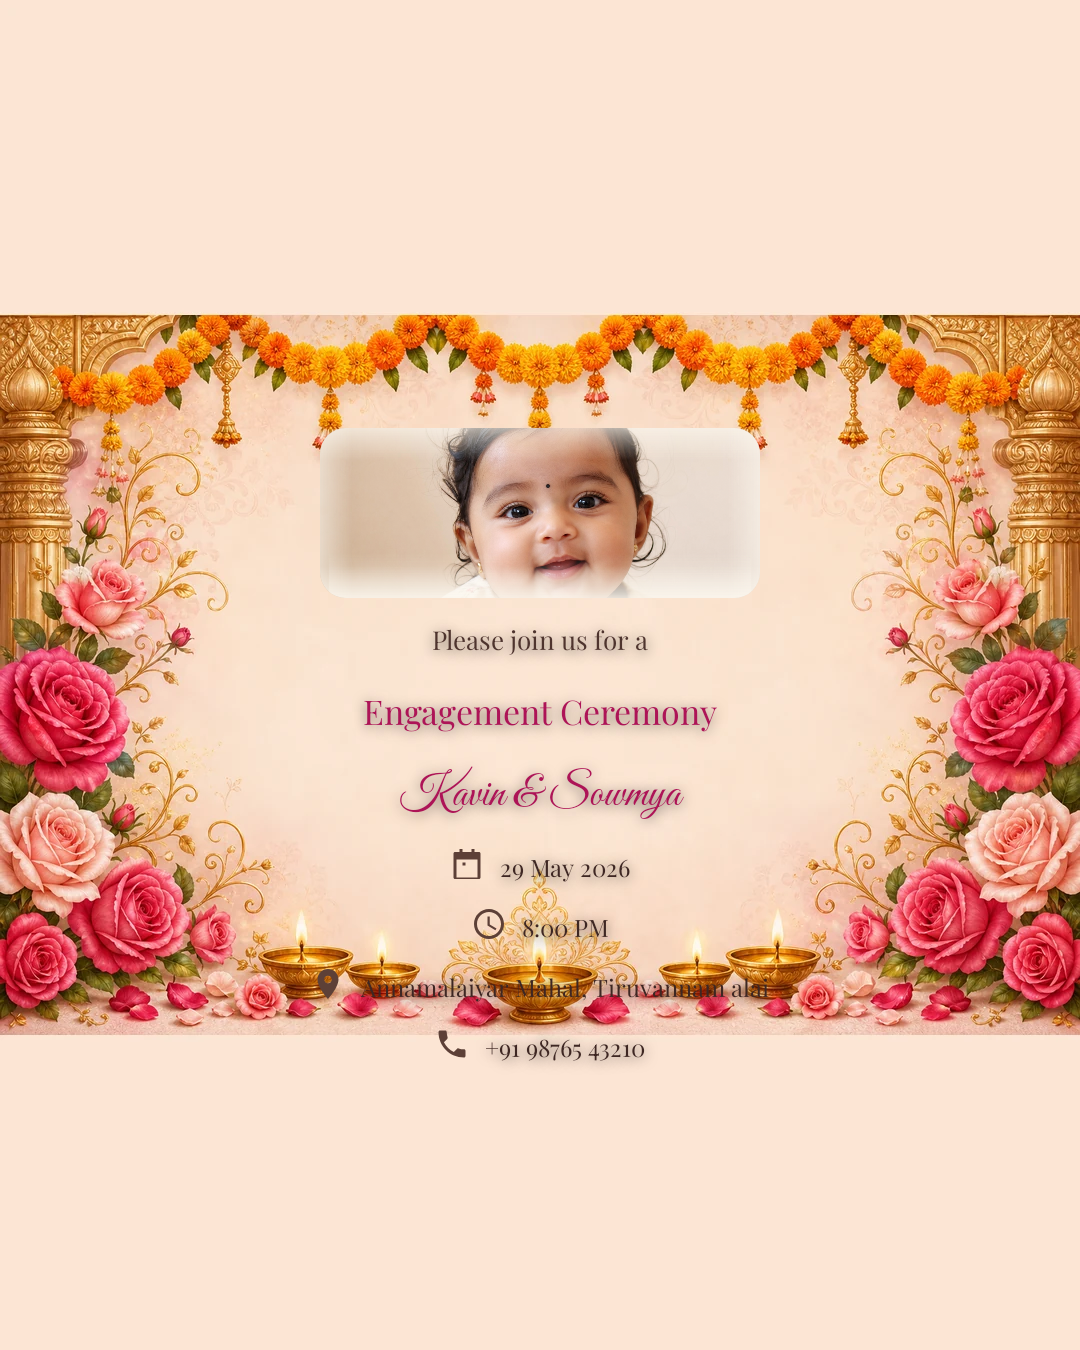
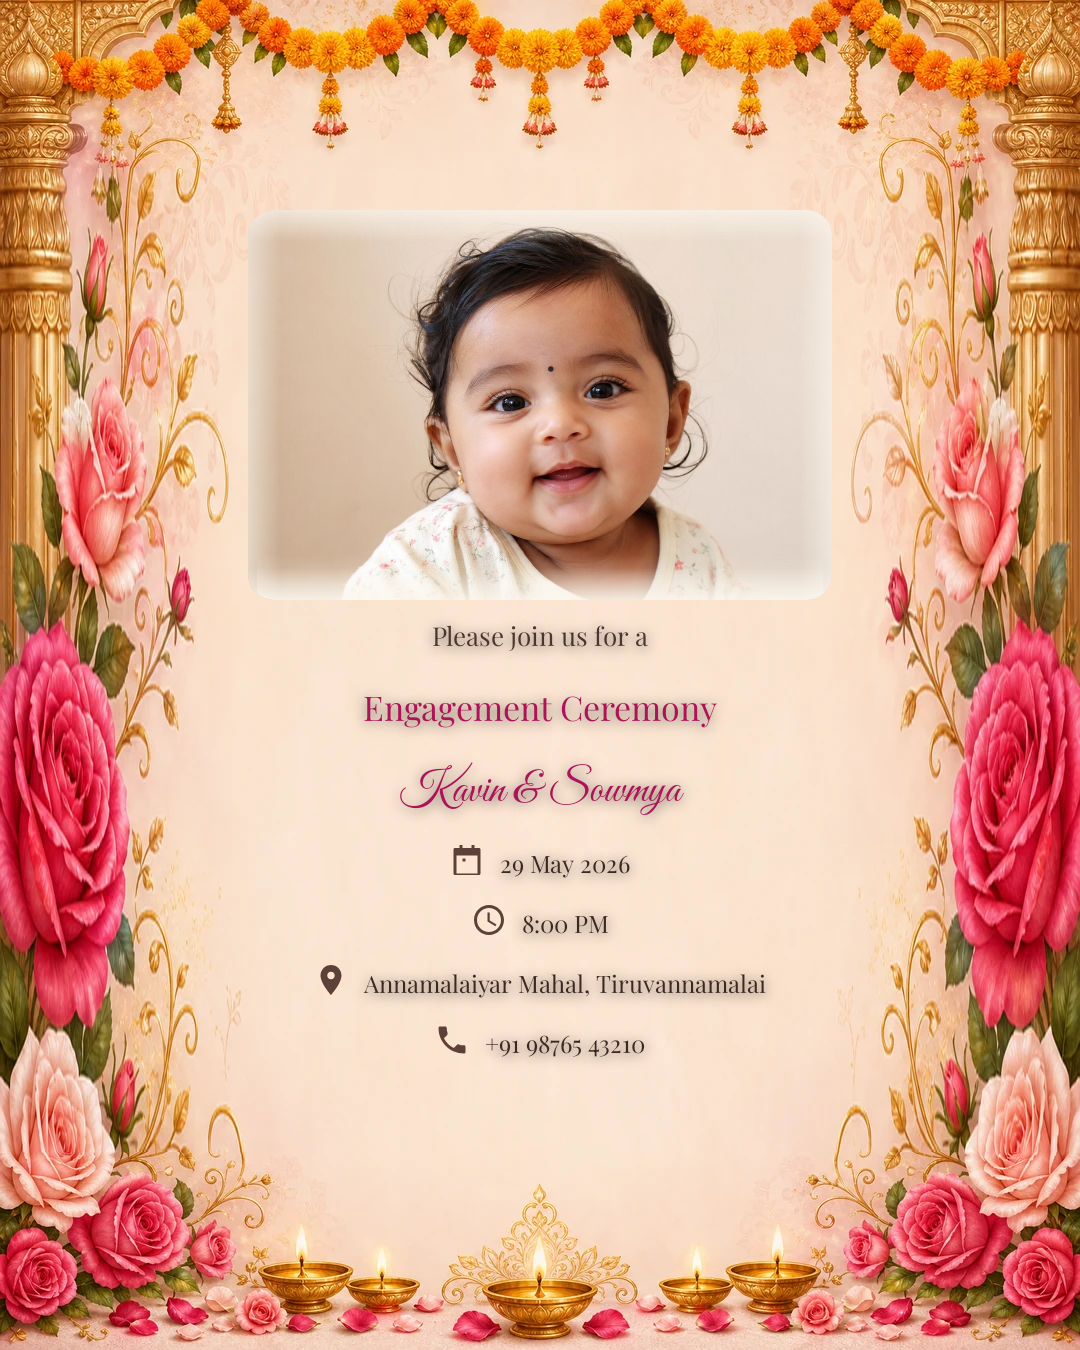
Fix portrait photo cards: full-bleed sources without letterbox or mirror seams
Rebuild engagement and naming backgrounds as native 1080×1350 assets using
side-border stretch plus expanded cream center panel. Top toran and bottom
lotus bands keep their designed height so décor fills the full canvas.

- Add tools/build_portrait_sources.py with landscape backup support
- Pass through 1080×1350 sources in convert_photo_backgrounds.py
- Update PhotoCardPlacement and InvitationLayout for portrait coordinates
- Regenerate WebP assets, samples, and landscape master backups

diff --git a/app/src/main/java/com/vaangainvite/core/image/PhotoCardPlacement.kt b/app/src/main/java/com/vaangainvite/core/image/PhotoCardPlacement.kt
@@ -18,8 +18,8 @@ internal object PhotoCardPlacement {
         val cornerRadius: Float = 26f
     )
 
-    /** Smaller portrait slot — leaves more cream and shows side border art. */
-    private val traditionalPhoto = RectF(320f, 428f, 760f, 598f)
+    /** Measured on native 1080×1350 portrait sources (full-bleed, no letterbox). */
+    private val traditionalPhoto = RectF(248f, 210f, 832f, 600f)
 
     private val templateIds = (1..5).flatMap { i ->
         listOf("engagement_%02d".format(i), "naming_%02d".format(i))

diff --git a/app/src/main/java/com/vaangainvite/core/image/InvitationLayout.kt b/app/src/main/java/com/vaangainvite/core/image/InvitationLayout.kt
@@ -41,8 +41,8 @@ internal object InvitationLayout {
     private val photoCardTextZone = TextZoneSpec(
         left = 200f,
         right = 880f,
-        topNoPhoto = 608f,
-        topWithPhoto = 618f,
+        topNoPhoto = 618f,
+        topWithPhoto = 612f,
         bottom = 1105f,
         messageBottom = 1068f,
         photoTextGap = 14f

diff --git a/tools/build_portrait_sources.py b/tools/build_portrait_sources.py
@@ -1,0 +1,145 @@
+#!/usr/bin/env python3
+"""
+Build native 1080×1350 portrait source PNGs from landscape designed art.
+
+Fills the portrait canvas without letterboxing or mirrored décor seams:
+  • Top toran / bottom lotus bands keep their designed height
+  • Side borders stretch vertically (leaf/filigree patterns)
+  • Center cream panel expands for photo + copy
+
+    python3 tools/build_portrait_sources.py --prefix engagement --restore-landscape
+    python3 tools/build_portrait_sources.py --prefix naming --restore-landscape
+"""
+
+from __future__ import annotations
+
+import argparse
+from pathlib import Path
+
+from PIL import Image, ImageFilter
+
+TARGET_W = 1080
+TARGET_H = 1350
+
+# Measured from designed landscape cards (1536×1024 → width-fit 1080×720).
+TOP_BAND_RATIO = 0.235
+BOTTOM_BAND_RATIO = 0.275
+SIDE_COL_RATIO = 0.122
+
+
+def sample_cream(im: Image.Image) -> tuple[int, int, int]:
+    w, h = im.size
+    patch = im.crop((w // 2 - 24, h // 2 - 24, w // 2 + 24, h // 2 + 24))
+    pixels = list(
+        patch.get_flattened_data() if hasattr(patch, "get_flattened_data") else patch.getdata()
+    )
+    pixels.sort(key=lambda c: c[0] + c[1] + c[2])
+    return pixels[len(pixels) // 2]
+
+
+def add_parchment_texture(base: Image.Image, strength: float = 0.035) -> Image.Image:
+    noise = Image.effect_noise(base.size, 32).convert("L")
+    noise = noise.filter(ImageFilter.GaussianBlur(radius=1.2))
+    overlay = Image.merge("RGB", (noise, noise, noise))
+    return Image.blend(base, overlay, strength)
+
+
+def landscape_to_portrait(im: Image.Image) -> Image.Image:
+    w, h = im.size
+    if w == TARGET_W and h == TARGET_H:
+        return im
+
+    scale = TARGET_W / w
+    scaled_h = max(1, int(h * scale))
+    scaled = im.resize((TARGET_W, scaled_h), Image.Resampling.LANCZOS)
+
+    if scaled.height >= TARGET_H:
+        top = (scaled.height - TARGET_H) // 2
+        return scaled.crop((0, top, TARGET_W, top + TARGET_H))
+
+    sw, sh = scaled.size
+    side_w = max(72, int(sw * SIDE_COL_RATIO))
+    top_h = max(96, int(sh * TOP_BAND_RATIO))
+    bottom_h = max(96, int(sh * BOTTOM_BAND_RATIO))
+
+    cream = sample_cream(scaled)
+    canvas = Image.new("RGB", (TARGET_W, TARGET_H), cream)
+    canvas = add_parchment_texture(canvas)
+
+    mid_top = top_h
+    mid_bottom = TARGET_H - bottom_h
+    mid_h = mid_bottom - mid_top
+
+    left_src = scaled.crop((0, top_h, side_w, sh - bottom_h))
+    right_src = scaled.crop((sw - side_w, top_h, sw, sh - bottom_h))
+    if left_src.height > 0 and mid_h > 0:
+        left_strip = left_src.resize((side_w, mid_h), Image.Resampling.LANCZOS)
+        right_strip = right_src.resize((side_w, mid_h), Image.Resampling.LANCZOS)
+        canvas.paste(left_strip, (0, mid_top))
+        canvas.paste(right_strip, (TARGET_W - side_w, mid_top))
+
+    top_band = scaled.crop((0, 0, sw, top_h))
+    canvas.paste(top_band, (0, 0))
+
+    bottom_band = scaled.crop((0, sh - bottom_h, sw, sh))
+    canvas.paste(bottom_band, (0, TARGET_H - bottom_h))
+    center_src = scaled.crop((side_w, top_h, sw - side_w, sh - bottom_h))
+    if center_src.height > 0 and mid_h > 0:
+        center = center_src.resize((sw - 2 * side_w, mid_h), Image.Resampling.LANCZOS)
+        canvas.paste(center, (side_w, mid_top))
+
+    return canvas
+
+
+def restore_from_backup(src: Path) -> bool:
+    backup = src.with_name(src.stem + "_landscape_backup.png")
+    if not backup.exists():
+        return False
+    Image.open(backup).convert("RGB").save(src, format="PNG", optimize=True)
+    print(f"restore {src.name} from {backup.name}")
+    return True
+
+
+def main() -> int:
+    parser = argparse.ArgumentParser()
+    parser.add_argument("--source-dir", type=Path, default=Path(__file__).parent / "bg_sources")
+    parser.add_argument("--prefix", type=str, required=True)
+    parser.add_argument(
+        "--backup-landscape",
+        action="store_true",
+        help="Save original landscape file as *_landscape_backup.png before overwriting",
+    )
+    parser.add_argument(
+        "--restore-landscape",
+        action="store_true",
+        help="Rebuild from *_landscape_backup.png when present",
+    )
+    args = parser.parse_args()
+
+    for src in sorted(args.source_dir.glob(f"{args.prefix}_*_source.png")):
+        if "_landscape_backup" in src.name:
+            continue
+
+        if args.restore_landscape:
+            restore_from_backup(src)
+
+        im = Image.open(src).convert("RGB")
+        if im.size == (TARGET_W, TARGET_H) and not args.restore_landscape:
+            print(f"skip {src.name} (already {TARGET_W}×{TARGET_H})")
+            continue
+
+        if args.backup_landscape and im.size[0] > im.size[1]:
+            backup = src.with_name(src.stem + "_landscape_backup.png")
+            if not backup.exists():
+                im.save(backup, format="PNG", optimize=True)
+                print(f"backup {backup.name}")
+            im = Image.open(backup if backup.exists() else src).convert("RGB")
+
+        portrait = landscape_to_portrait(im)
+        portrait.save(src, format="PNG", optimize=True)
+        print(f"portrait {src.name} ({portrait.size[0]}×{portrait.size[1]})")
+    return 0
+
+
+if __name__ == "__main__":
+    raise SystemExit(main())

diff --git a/tools/convert_photo_backgrounds.py b/tools/convert_photo_backgrounds.py
@@ -9,27 +9,11 @@ from pathlib import Path
 from PIL import Image, ImageDraw
 
 TARGET_W = 1080
-# Cream band where the app draws event copy (below arch photo opening).
-# Plain band where the app draws copy (keeps décor at top/bottom edges only).
-TEXT_BAND = (210, 442, 870, 1012)
 TARGET_H = 1350
-TARGET_RATIO = TARGET_W / TARGET_H
-
-
-def crop_center_cover(im: Image.Image, target_ratio: float) -> Image.Image:
-    w, h = im.size
-    current = w / h
-    if current > target_ratio:
-        new_w = int(h * target_ratio)
-        left = (w - new_w) // 2
-        return im.crop((left, 0, left + new_w, h))
-    new_h = int(w / target_ratio)
-    top = (h - new_h) // 2
-    return im.crop((0, top, w, top + new_h))
+TEXT_BAND = (210, 442, 870, 1012)
 
 
 def sample_edge_color(im: Image.Image) -> tuple[int, int, int]:
-    """Cream fill for vertical letterbox pads (from center panel)."""
     x, y = im.width // 2, im.height // 2
     patch = im.crop((x - 24, y - 24, x + 24, y + 24))
     pixels = list(patch.get_flattened_data() if hasattr(patch, "get_flattened_data") else patch.getdata())
@@ -38,35 +22,26 @@ def sample_edge_color(im: Image.Image) -> tuple[int, int, int]:
 
 
 def fit_portrait_card(im: Image.Image) -> Image.Image:
-    """Scale to 1080×1350 without squashing; keep full width on landscape art (side borders)."""
+    """Pass-through for native 1080×1350 sources; otherwise scale width + cream letterbox."""
     w, h = im.size
-    target_ratio = TARGET_W / TARGET_H
-    current = w / h
-
-    if current > target_ratio:
-        # Wide designed art — scale to full card width so left/right décor is not cropped.
-        scale = TARGET_W / w
-        new_w = TARGET_W
-        new_h = max(1, int(h * scale))
-        im = im.resize((new_w, new_h), Image.Resampling.LANCZOS)
-        if new_h >= TARGET_H:
-            top = (new_h - TARGET_H) // 2
-            return im.crop((0, top, TARGET_W, top + TARGET_H))
-        fill = sample_edge_color(im)
-        out = Image.new("RGB", (TARGET_W, TARGET_H), fill)
-        out.paste(im, (0, (TARGET_H - new_h) // 2))
-        return out
+    if w == TARGET_W and h == TARGET_H:
+        return im
+    if abs(w / h - TARGET_W / TARGET_H) < 0.02 and w >= TARGET_W:
+        return im.resize((TARGET_W, TARGET_H), Image.Resampling.LANCZOS)
 
     scale = TARGET_W / w
-    new_w = TARGET_W
-    new_h = max(TARGET_H, int(h * scale))
-    im = im.resize((new_w, new_h), Image.Resampling.LANCZOS)
-    top = max(0, (new_h - TARGET_H) // 2)
-    return im.crop((0, top, TARGET_W, top + TARGET_H))
+    scaled = im.resize((TARGET_W, max(1, int(h * scale))), Image.Resampling.LANCZOS)
+    if scaled.height >= TARGET_H:
+        top = (scaled.height - TARGET_H) // 2
+        return scaled.crop((0, top, TARGET_W, top + TARGET_H))
+
+    fill = sample_edge_color(scaled)
+    out = Image.new("RGB", (TARGET_W, TARGET_H), fill)
+    out.paste(scaled, (0, (TARGET_H - scaled.height) // 2))
+    return out
 
 
 def sample_panel_color(im: Image.Image) -> tuple[int, int, int]:
-    """Pick a neutral fill from the panel beside the arch (avoids gold frame pixels)."""
     x, y = im.width // 2, int(im.height * 0.36)
     patch = im.crop((x - 20, y - 20, x + 20, y + 20))
     pixels = list(patch.get_flattened_data() if hasattr(patch, "get_flattened_data") else patch.getdata())
@@ -75,7 +50,6 @@ def sample_panel_color(im: Image.Image) -> tuple[int, int, int]:
 
 
 def clear_placeholder_text(im: Image.Image) -> Image.Image:
-    """Remove AI placeholder wording so only app-rendered text appears."""
     fill = sample_panel_color(im)
     out = im.copy()
     ImageDraw.Draw(out).rectangle(TEXT_BAND, fill=fill)
@@ -104,6 +78,8 @@ def main() -> int:
     args = parser.parse_args()
 
     for src in sorted(args.source_dir.glob(f"{args.prefix}_*_source.png")):
+        if "_landscape_backup" in src.name:
+            continue
         stem = src.stem.replace("_source", "")
         dest = args.dest_dir / f"bg_{stem}.webp"
         convert_one(src, dest, args.quality, strip_text=False)

diff --git a/docs/samples/engagement/README.md b/docs/samples/engagement/README.md
@@ -14,8 +14,11 @@ Five **illustrated WebP** backgrounds (`bg_engagement_01` … `05`) with:
 | engagement_04 | Rose Temple Border |
 | engagement_05 | Mango Leaf Gold |
 
-## Replace artwork
+## Regenerate portrait assets
 
-1. Save designed PNGs as `tools/bg_sources/engagement_XX_source.png` (portrait ~4:5).
-2. `python3 tools/convert_photo_backgrounds.py`
-3. `PREVIEW_OUTPUT_DIR=docs/samples/engagement ./gradlew testDebugUnitTest --tests "EngagementSampleExportTest"`
+Portrait sources are built from landscape masters by **stretching the side borders and center cream panel** (top toran and bottom lotus keep their original height — no letterbox, no mirrored seams).
+
+1. Landscape masters: `tools/bg_sources/engagement_XX_source_landscape_backup.png`
+2. Build 1080×1350 sources: `python3 tools/build_portrait_sources.py --prefix engagement --restore-landscape`
+3. WebP: `python3 tools/convert_photo_backgrounds.py --prefix engagement`
+4. Samples: `PREVIEW_OUTPUT_DIR=docs/samples/engagement ./gradlew testDebugUnitTest --tests "EngagementSampleExportTest"`
